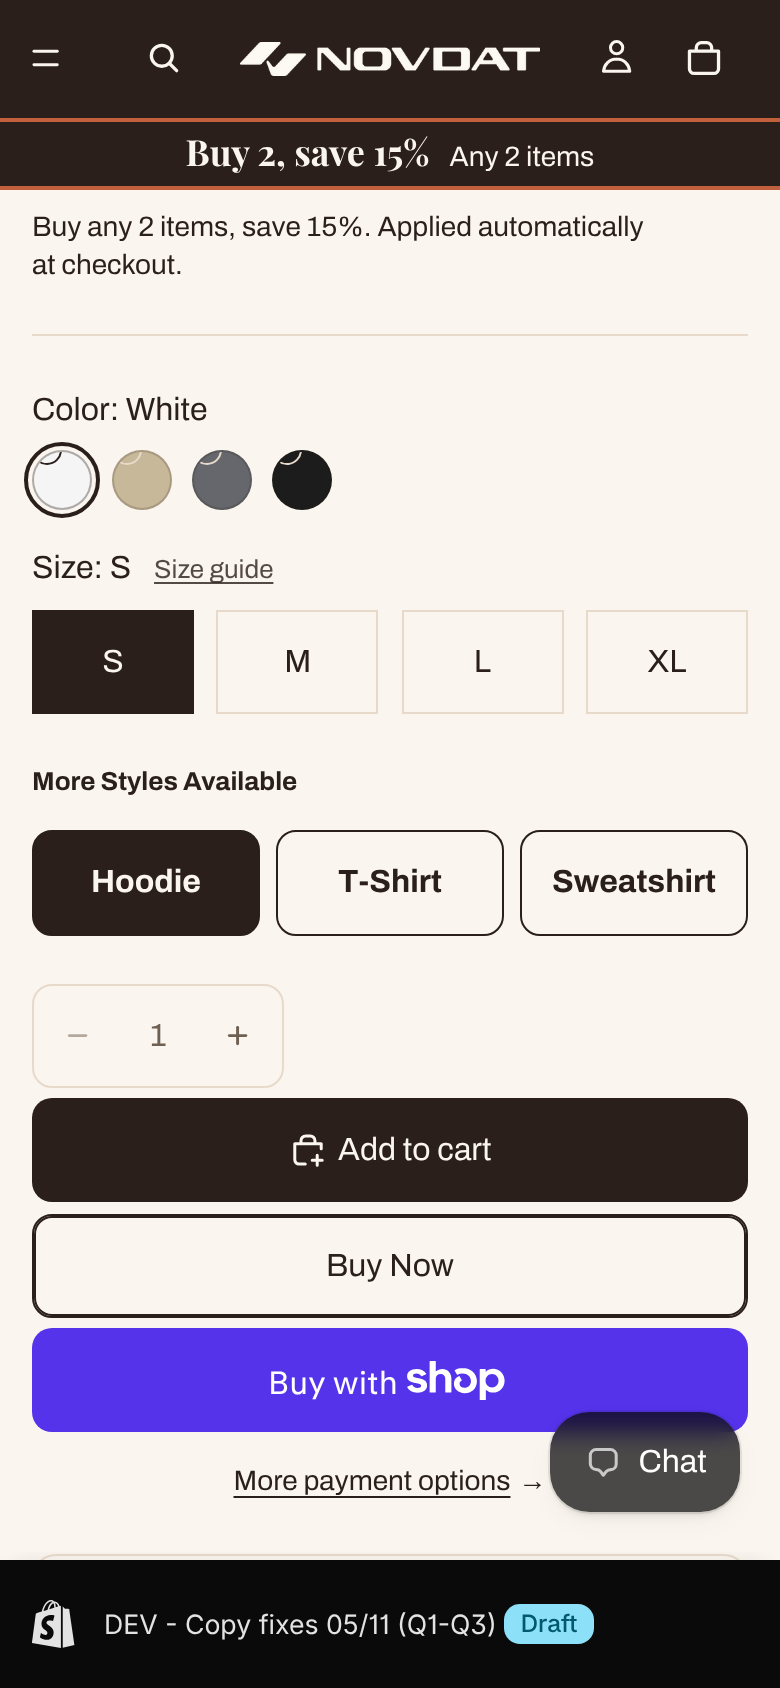
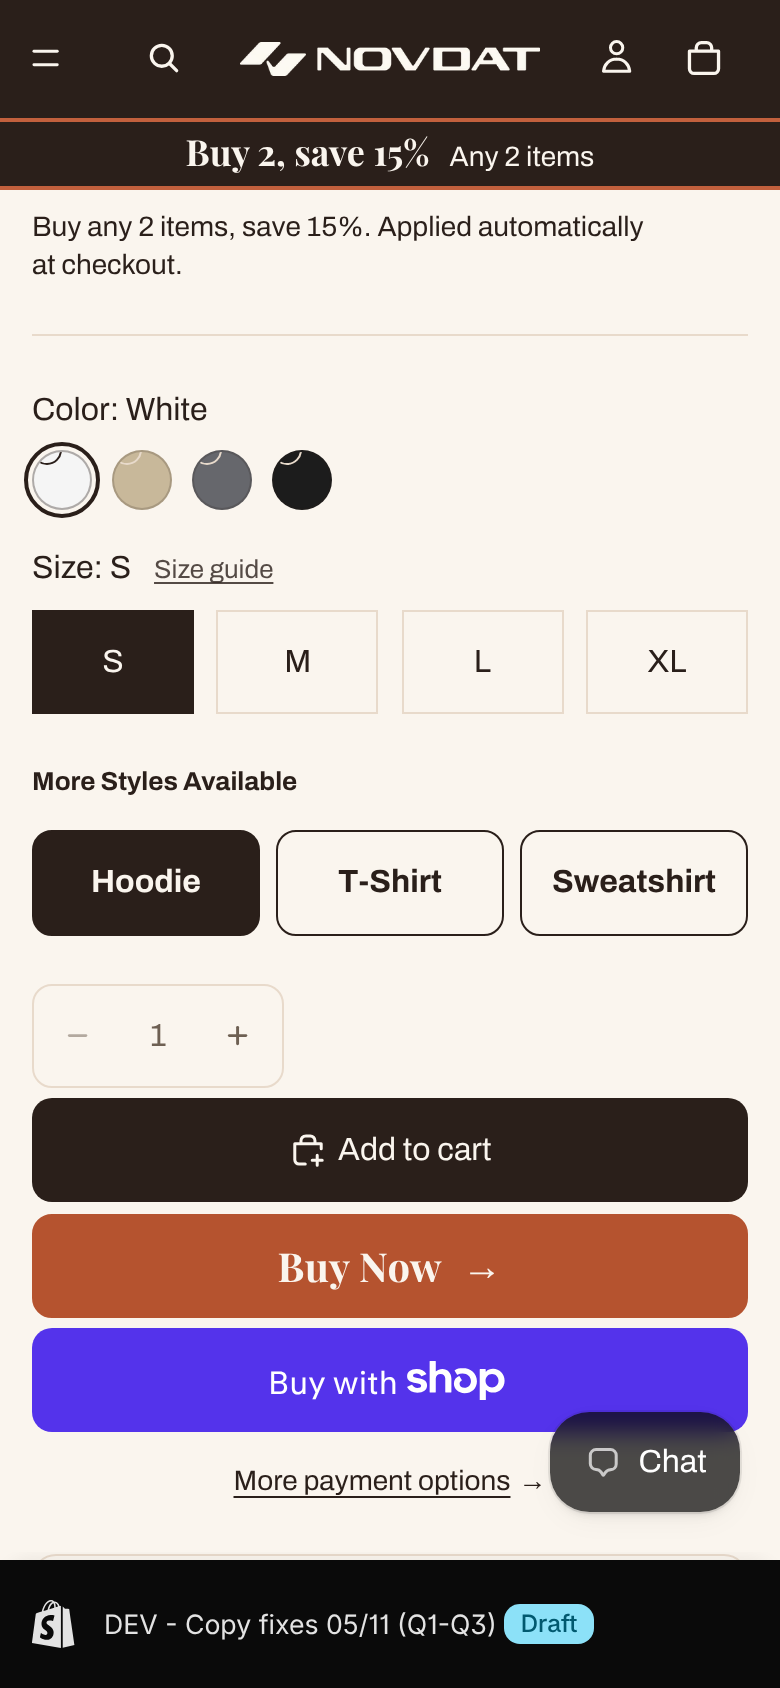
Buy Now: terracotta + Playfair on DEV; Hanna video attempt 2 review; log
Claude-Session: https://claude.ai/code/session_01KgmwJgVKbcPVksH6r6yxQ4

Changed region(s): [[0.0308, 0.7085, 0.9846, 0.8009]]

diff --git a/NOVDAT_TAI_LIEU/3-creative/VIDEO_SPEC_TEST_0811.md b/NOVDAT_TAI_LIEU/3-creative/VIDEO_SPEC_TEST_0811.md
@@ -105,6 +105,37 @@ Token còn: **7.720**.
   - Job `cmw39f9mm000100il32c66vml` bị lỗi: model không cho dùng ảnh khung mở cùng ảnh tham chiếu. Không trừ token.
   - Chạy lại với ảnh khung mở làm **tham chiếu thứ nhất**: [video lần 2](https://www.kittl.com/ai-studio/video-generator?microEdit=cmw39ort6000000il9dlzxdfg) (job `cmw39ort6000000il9dlzxdfg`, 12,1 giây). Chờ anh chấm 7 tiêu chí.
 
+## Chấm video Hanna lần 2 (Claude đọc khung hình, 05/11)
+
+File anh gửi: 12,0 giây, 720×1280, 24 khung/giây, chưa có chữ hook và nhạc. Tôi cắt 2 khung/giây để xem. **Tôi không nghe được tiếng** (mức tiếng trung bình rất nhỏ, -37 dB).
+
+| # | Tiêu chí | Kết quả | Chi tiết |
+|---|---|---|---|
+| 1 | Chữ in đúng 100% ≥ 1,5 giây | **Đạt, trừ cuối video** | Giây 1,5–10,5: "NOT FAST." đỏ và "STILL OUT HERE." đen đọc đúng. Giây 11–12 khi chạy ra khỏi khung: chữ cong, "NOT" vỡ → phải cắt bỏ đoạn này |
+| 2 | Mặt giữ đúng | **Đạt một phần** | Mặt nhất quán cả video. Nhưng giây 3–4,5 Hanna **nhìn thẳng vào máy và miệng mở như đang nói**, trái yêu cầu "không nhìn ống kính" |
+| 3 | Dáng tự nhiên | **Không đạt** | Chạy giây 0–2,5 khá tự nhiên. Sau đó **tay chống hông gần như đứng yên 7 giây**, xoay cổ như tạo dáng. Không có dấu hiệu "hơi mệt" (không cúi người, không thở). Chạy tiếp ở giây 10,5 hơi đột ngột |
+| 4 | Áo giữ đúng | **Đạt** | Màu trắng, chữ in, logo tay áo trái đều đúng |
+| 5 | Không "vẻ AI" | **Không đạt** | Phố quá lung linh: dây đèn phủ khắp cây, cửa sổ vàng đều nhau, trời xanh đậm như phim. Bố cục đối xứng tuyệt đối, máy đứng im hoàn toàn, da mịn |
+| 6 | 3 giây đầu có chuyển động | **Đạt** | |
+| 7 | Nền không chữ lạ | **Đạt** | Không thấy chữ trong nền |
+
+**Kết luận:** 4/7 đạt, **không đạt tiêu chí 3 và 5**, tiêu chí 2 một phần. Khớp với đánh giá của anh: chưa đủ tốt để làm quảng cáo.
+
+**Gốc của lỗi (Claude tự nhận định):**
+1. Tôi tả bối cảnh "đèn đường vừa bật" nên AI dựng cảnh phố đêm lung linh. Cảnh đời thường nên là ban ngày, ánh sáng phẳng.
+2. Kịch bản "dừng nghỉ, vui vẻ" bị AI hiểu thành đứng tạo dáng 7 giây. Cần hành động nhỏ, cụ thể (cúi chống tay lên gối, thở ra, đứng thẳng) thay vì mô tả cảm xúc.
+3. Ảnh khung mở đối xứng nên video giữ nguyên sự đối xứng.
+
+**Phương án tiếp (anh chọn):**
+
+| | Làm gì | Token | Rủi ro |
+|---|---|---|---|
+| **A** | Làm lần 3, **công thức khác**: ban ngày, trời xám sáng, phố ít đèn; khung mở lệch, máy hơi rung; 8 giây; Hanna cúi chống tay lên gối rồi đứng dậy nhìn quanh, miệng khép, không nhìn máy; cắt trước khi ra khỏi khung | ~300 (ảnh 20 + video 280) | Vẫn có thể lỗi tương tự. Đây là lần thứ 3, vượt quy tắc "2 lần không đạt thì dừng" ở dưới |
+| **B** | Video **không người** từ mockup thật (áo treo, máy lướt, chữ đúng 100%) | gần 0 | Ít hấp dẫn hơn, nhưng gần như không lỗi |
+| **C** | **Không chờ video**: chạy test 08/11 với 3 quảng cáo ảnh; video thêm vào khi đạt | 0 | Mất vài ngày dữ liệu video |
+
+**Claude đề xuất C cho test 08/11, cộng A một lần nữa; nếu A không đạt thì dừng video có người và dùng B.** Quyết định là của anh.
+
 ## Kế hoạch edit Video Hanna (anh ghép bằng CapCut, [ĐỀ XUẤT])
 
 Anh nhận xét video lần 2 "ổn hơn" và cần edit thêm để hấp dẫn hơn. Dưới đây là kế hoạch edit theo từng giây. Nguyên tắc: **tắt tiếng vẫn hiểu**, chữ ngắn, chữ in trên áo không bị che.

diff --git a/NOVDAT_TAI_LIEU/0-NHAT_KY_PHIEN.md b/NOVDAT_TAI_LIEU/0-NHAT_KY_PHIEN.md
@@ -26,6 +26,24 @@ File này cập nhật sau **mỗi lần** Claude báo kết quả cho anh trong
 
 ---
 
+## 05/11 — Buy Now: màu và font nổi bật hơn + chấm video Hanna lần 2
+
+- **Anh chốt:**
+  - Buy Now bấm được, ổn. Cần nổi bật hơn: font gây ấn tượng và hợp NOVDAT, màu nút tương phản với chữ, vẫn giữ bố cục trang sản phẩm.
+  - Video Hanna lần 2 (file anh gửi) chưa đủ tốt để làm quảng cáo.
+- **Đã làm:**
+  - Sửa `blocks/buy-now.liquid` trên theme **DEV** (LIVE không bị đụng): Buy Now màu **đất nung #B5532F**, chữ kem, font **Playfair Display đậm 20px** (cùng font tiêu đề của NOVDAT), kèm mũi tên →. Cùng rộng, cao (52px) và bo góc 10px với Add to cart. Tương phản chữ/nền 4,56:1. Lần chỉnh đầu mũi tên bị rớt dòng, đã sửa. Ảnh mới ở [thư mục này](https://github.com/fixr1102/Novdat-and-Invest/tree/claude/eager-sagan-t943vz/NOVDAT_TAI_LIEU/1-bao-cao/dev-theme-buy-now-0511).
+  - Chấm [video Hanna lần 2](https://github.com/fixr1102/Novdat-and-Invest/blob/claude/eager-sagan-t943vz/NOVDAT_TAI_LIEU/3-creative/VIDEO_SPEC_TEST_0811.md): **4/7 đạt**. Không đạt tiêu chí 3 (tay chống hông đứng yên 7 giây, không có vẻ mệt) và 5 (phố lung linh, đối xứng, máy đứng im); tiêu chí 2 một phần (giây 3–4,5 nhìn thẳng vào máy, miệng mở); giây 11–12 chữ in méo khi ra khỏi khung.
+  - Nêu 3 phương án tiếp (A/B/C) trong file đó.
+  - Cập nhật Thị trấn: Tiến độ 24 (mục 5 và mục 4 checklist), Tiến độ 12.
+- **Claude tự chọn:**
+  - Màu đất nung thay cho cam sáng của theme gốc (#C2603D, tương phản chỉ 3,85:1) để chữ kem đọc rõ hơn.
+  - Add to cart giữ nguyên nút tối; Buy Now là nút màu thứ hai. Anh đã chọn làm Buy Now nổi bật.
+- **Đã ghi ra ngoài:** Shopify: 1 file trên theme DEV (3 lần ghi). Thị trấn: `p24`, `p12`. GitHub.
+- **Chờ anh:**
+  1. Xem lại DEV trên điện thoại, bấm thử Buy Now. Đúng ý thì **anh** Publish.
+  2. Chọn phương án video: A (làm lần 3, ban ngày, 8 giây, khoảng 300 token), B (video không người) hoặc C (test 08/11 chạy 3 ảnh, video thêm sau). Claude đề xuất C + một lần A.
+
 ## 05/11 — Sửa nút Buy Now trên theme DEV + kế hoạch edit video Hanna
 
 - **Anh chốt:**
